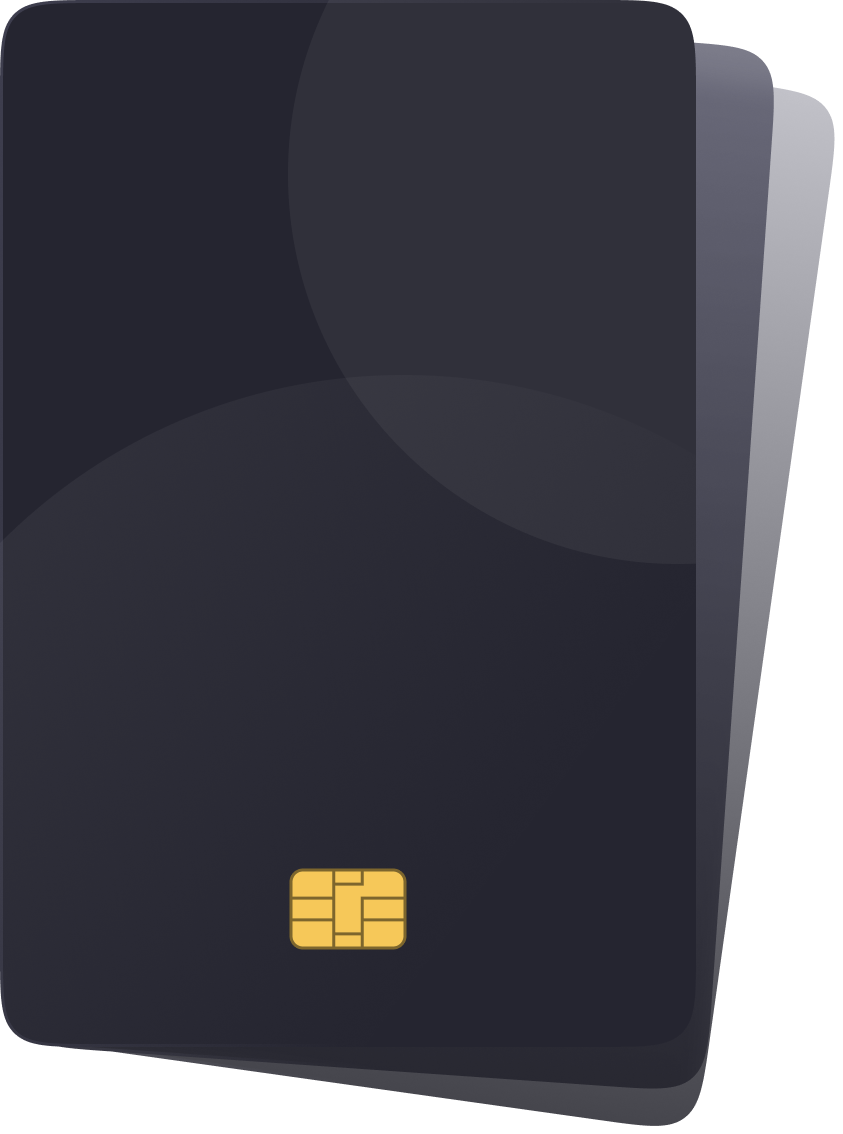
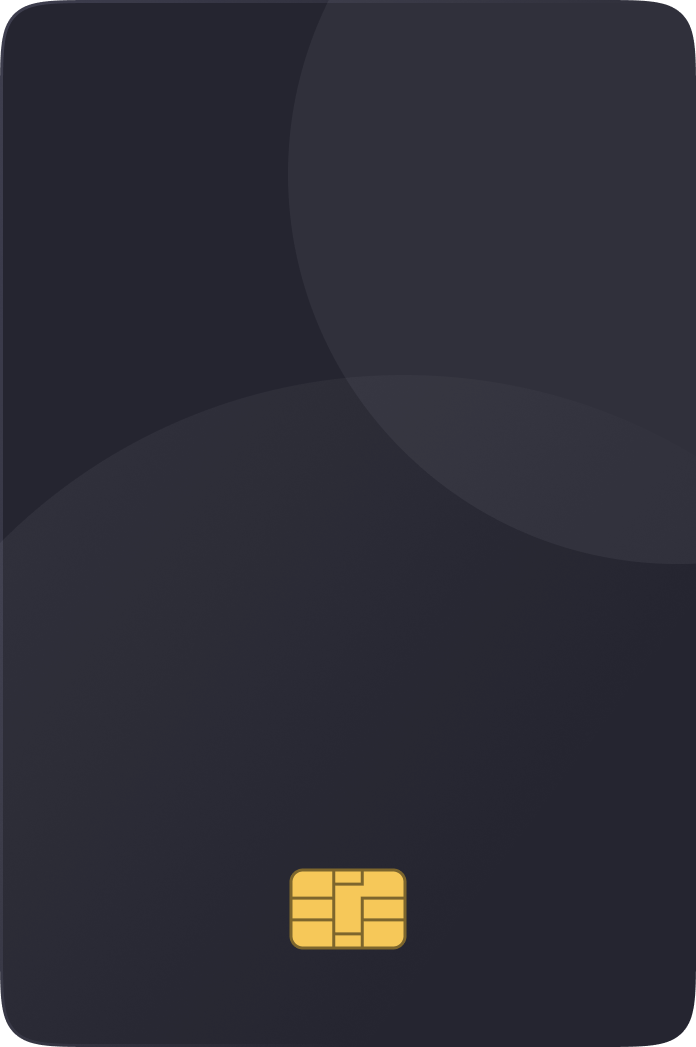
Update : my-card

Changed region(s): [[0.0, 0.0, 1.0, 1.0], [0.0, 0.0, 0.0603, 0.0306]]

diff --git a/src/app/my-card/index.tsx b/src/app/my-card/index.tsx
@@ -7,17 +7,37 @@ import tw from "twin.macro";
 import Image from "next/image";
 import lottie from "lottie-web/build/player/lottie_light";
 import congratulation from "public/congratulation.json";
+import { useWalletContext } from "../modules/wallet/hooks/useWalletContext";
+import { useWalletAuth } from "../modules/wallet/hooks/useWalletAuth";
 
 interface Props {
   isSuccess: boolean;
 }
 
 export const MyCard = ({ isSuccess }: Props) => {
+  const { wallet } = useWalletContext();
+  const { nfcSerialNumber } = useWalletAuth();
+  const localStorageAddress = window.localStorage.getItem("walletAddress");
+  const parsedAddress = JSON.parse(localStorageAddress || "{}");
+  const walletAddress = parsedAddress[nfcSerialNumber!] || wallet?.getAddress();
+
   return (
     <>
       <Wrapper>
         <Title>My Credit Card</Title>
-        <CardImage src={NfcCardImage} alt="credit-card-image" />
+        <CardImageWrapper>
+          <CardImage>
+            <CardLogo src="/mastercard-logo.svg" alt="mastercard" width={56} height={34} />
+            <CardTitle>NEBULA</CardTitle>
+            <CardUser>John Doe</CardUser>
+            <CardAddress>
+              {walletAddress?.slice(0, 6)}...{walletAddress?.slice(-5)}
+            </CardAddress>
+            <CardDate>12/25</CardDate>
+          </CardImage>
+          <CardImage2 />
+          <CardImage3 />
+        </CardImageWrapper>
       </Wrapper>
 
       <FooterBarBox>
@@ -28,18 +48,62 @@ export const MyCard = ({ isSuccess }: Props) => {
 };
 
 const Wrapper = tw.div`
-    flex-center flex-col text-gray3
-    pt-32 gap-40
-    relative
+  flex-center flex-col text-gray3
+  pt-32 gap-40
+  relative
 `;
 
 const Title = tw.div`
-    font-r-16
-    `;
+  font-r-16
+`;
 
-const CardImage = tw(Image)`
-    w-350
-    `;
+const CardImageWrapper = tw.div`
+  w-350 h-450
+  relative
+  mr-20
+`;
+
+const CardImage = tw.div`
+  flex flex-col items-center
+  bg-[url('/nfc-card.png')] bg-contain bg-center bg-no-repeat
+  absolute top-0 left-1/2 transform -translate-x-1/2
+  w-232 h-349
+  z-3
+`;
+
+const CardImage2 = tw.div`
+  bg-[url('/nfc-card-2.png')] bg-contain bg-center bg-no-repeat
+  absolute top-10 left-1/2 transform -translate-x-1/2
+  w-232 h-349 ml-20
+  z-2
+`;
+
+const CardImage3 = tw.div`
+  bg-[url('/nfc-card-3.png')] bg-contain bg-center bg-no-repeat
+  absolute top-20 left-1/2 transform -translate-x-1/2
+  w-232 h-349 ml-40
+  z-1
+`;
+
+const CardLogo = tw(Image)`
+mt-32
+  `;
+
+const CardTitle = tw.div`
+  font-r-16 font-semibold mt-16
+`;
+
+const CardUser = tw.div`
+  font-r-12 font-semibold mt-auto
+`;
+
+const CardAddress = tw.div`
+  font-r-16 font-semibold my-8
+`;
+
+const CardDate = tw.div`
+  font-r-14 font-semibold mb-76
+`;
 
 const LottieWrapper = tw.div`
   w-full h-full flex-center absolute absolute-center

diff --git a/src/app/sign-up/index.tsx b/src/app/sign-up/index.tsx
@@ -65,13 +65,13 @@ export const SignUpPage = ({
         <Title>Create Wallet</Title>
         {/* <div>{JSON.stringify(nfcMessage?.records)}</div> */}
         <CardImage src={CreditCardImage} alt="credit-card-image" />
-        <div className="text-white font-r-14">
+        <Content>
           {isNfcConnecting
             ? "Put your card on the back"
             : isConnected
-            ? "Success"
+            ? "Success!"
             : "Reading the card information"}
-        </div>
+        </Content>
         <LottieWrapper ref={warpperRef} />
       </Wrapper>
       <FooterBarBox>
@@ -89,6 +89,10 @@ const Wrapper = tw.div`
 
 const Title = tw.div`
     font-r-16
+`;
+
+const Content = tw.div`
+    font-r-14 text-white
 `;
 
 const CardImage = tw(Image)`

diff --git a/tailwind.config.js b/tailwind.config.js
@@ -27,6 +27,10 @@ module.exports = {
     },
 
     extend: {
+      rotate: {
+        '4': '4deg',
+      },
+
       colors: {
         ...defaultTheme.colors,
 
